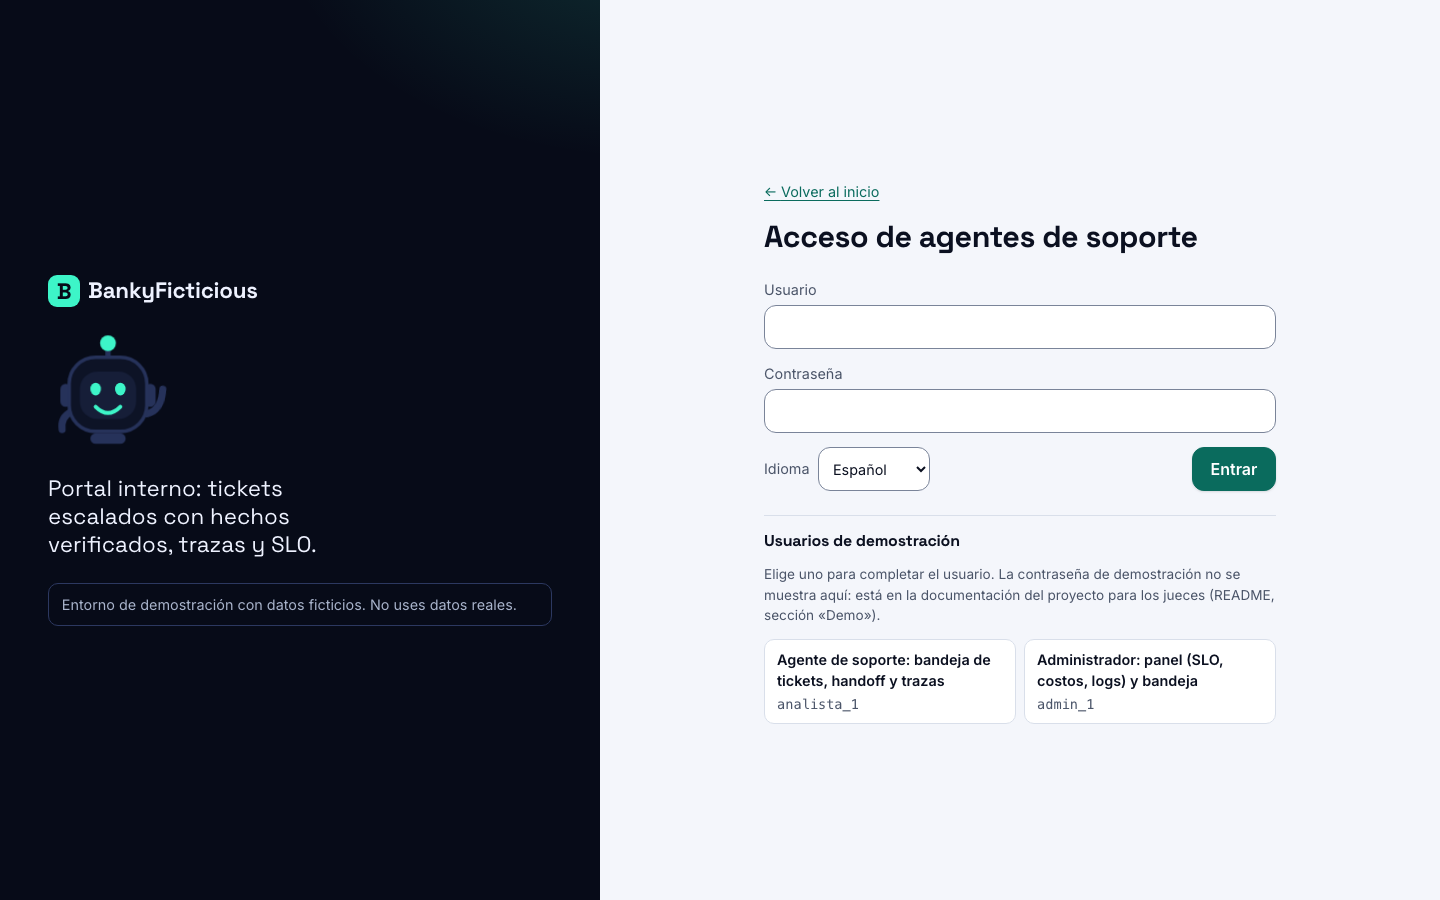
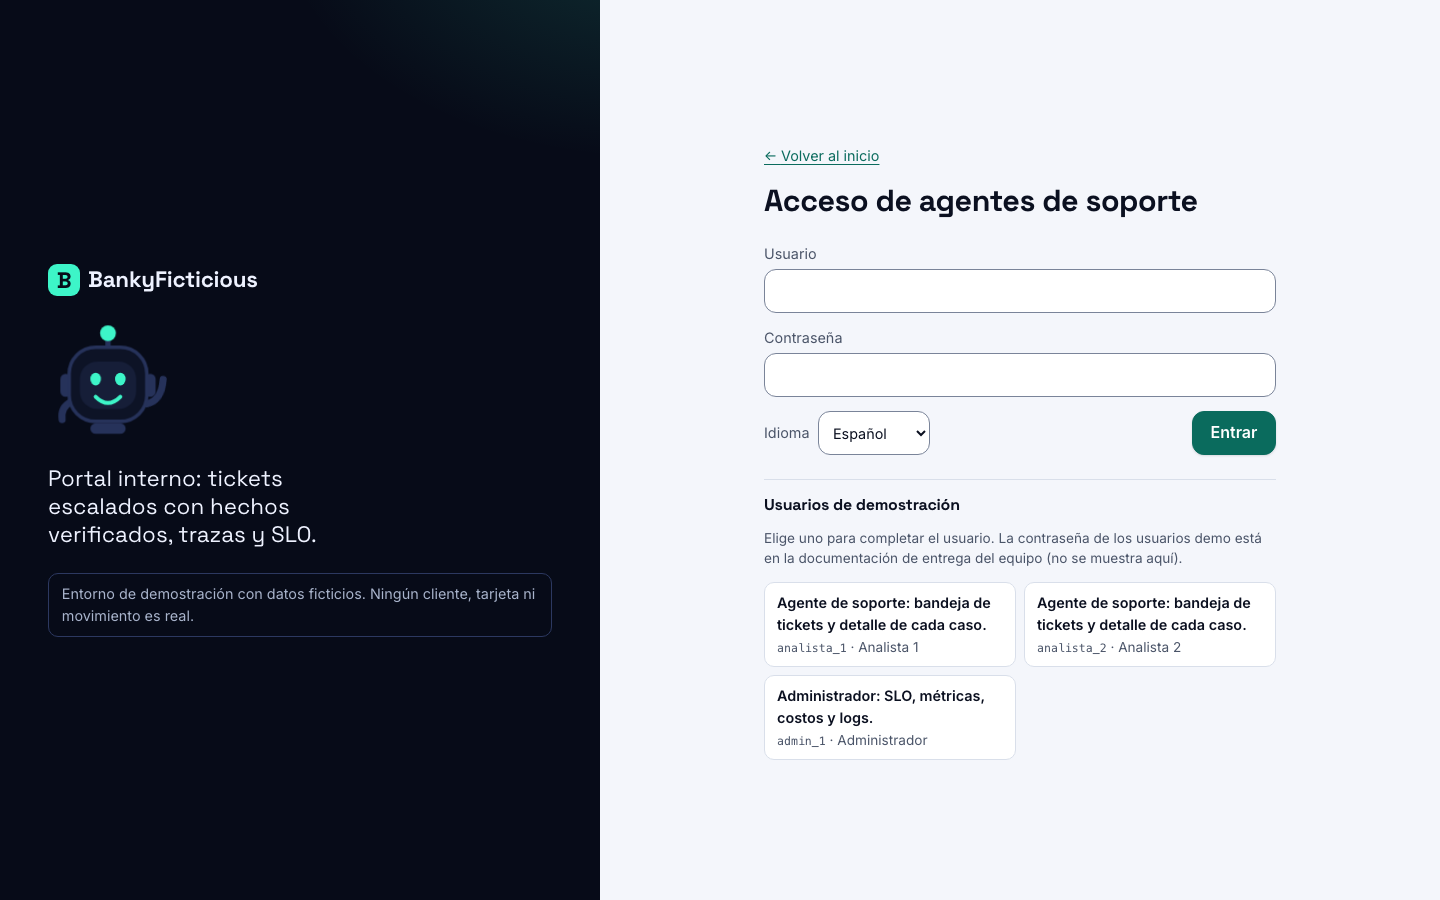
feat(frontend): demo-mode login with notice and demo user cards from /api/demo/info
Prompt 10, frontend item 2: login with `DEMO_MODE`.

- The login reads `GET /api/demo/info` (#78): with demo mode on it shows the demo-environment notice and the demo user cards with their scenario (customers on `/login`, agents and the admin on `/login?perfil=agente`).
- The password is never in the frontend: the hint from the API says where it is documented, and picking a card only fills the username.
- With demo mode off, or if the request fails, there is no notice and no cards. The built-in user list and the hard-coded demo banner are gone; the strip under the top bar shows the API notice only in demo mode.

Also closes #74 (the endpoint shape was settled by #78).

Closes #84

diff --git a/frontend/src/lib/i18n.ts b/frontend/src/lib/i18n.ts
@@ -3,14 +3,13 @@ import type { Lang } from "../api/types";
 
 const es = {
   appName: "BankyFicticious",
-  demoBanner: "Entorno de demostración con datos ficticios. No uses datos reales.",
   login: "Iniciar sesión",
   username: "Usuario",
   password: "Contraseña",
   signIn: "Entrar",
   signingIn: "Entrando…",
   demoUsers: "Usuarios de demostración",
-  demoUsersHint: "Elige uno para completar el usuario. La contraseña de demostración no se muestra aquí: está en la documentación del proyecto para los jueces (README, sección «Demo»).",
+  demoPick: "Elige uno para completar el usuario.",
   loginAside: "Soporte con Banky, tu asistente: encuentra el cargo, te explica qué sigue y registra tu reclamo.",
   loginAsideAgent: "Portal interno: tickets escalados con hechos verificados, trazas y SLO.",
   logout: "Salir",
@@ -295,14 +294,13 @@ type Dict = typeof es;
 const pt: Dict = {
   ...es,
   appName: "BankyFicticious",
-  demoBanner: "Ambiente de demonstração com dados fictícios. Não use dados reais.",
   login: "Entrar",
   username: "Usuário",
   password: "Senha",
   signIn: "Entrar",
   signingIn: "Entrando…",
   demoUsers: "Usuários de demonstração",
-  demoUsersHint: "Escolha um para preencher o usuário. A senha de demonstração não aparece aqui: está na documentação do projeto para os jurados (README, seção «Demo»).",
+  demoPick: "Escolha um para preencher o usuário.",
   loginAside: "Suporte com o Banky, seu assistente: encontra a cobrança, explica o próximo passo e registra a sua reclamação.",
   loginAsideAgent: "Portal interno: tickets encaminhados com fatos verificados, rastros e SLO.",
   logout: "Sair",
@@ -583,15 +581,3 @@ const pt: Dict = {
 };
 
 export const T: Record<Lang, Dict> = { es, pt };
-
-/** Usuarios demo (scripts/seed_demo_users.py) con el escenario que representa cada uno. */
-export const DEMO_USERS: { username: string; scenario: Record<Lang, string>; role: "customer" | "analyst" }[] = [
-  { username: "demo_cargo_claro_2", role: "customer", scenario: { es: "Cargo claro: un retiro que no reconoce", pt: "Cobrança clara: um saque que não reconhece" } },
-  { username: "demo_cargos_parecidos_2", role: "customer", scenario: { es: "Cargos parecidos: el asistente pregunta cuál", pt: "Cobranças parecidas: o assistente pergunta qual" } },
-  { username: "demo_fraude_alto_1", role: "customer", scenario: { es: "Riesgo alto: escala a fraude y ofrece bloqueo", pt: "Risco alto: encaminha para fraude e oferece bloqueio" } },
-  { username: "demo_fuera_de_plazo_1", role: "customer", scenario: { es: "Fuera de plazo: pasa a una persona", pt: "Fora do prazo: passa para uma pessoa" } },
-  { username: "demo_pendiente_1", role: "customer", scenario: { es: "Cargo pendiente: informa (o R2b si insiste)", pt: "Cobrança pendente: informa (ou R2b se insistir)" } },
-  { username: "demo_revertido_1", role: "customer", scenario: { es: "Cargo revertido: no hay nada que reclamar", pt: "Cobrança estornada: não há o que contestar" } },
-  { username: "analista_1", role: "analyst", scenario: { es: "Agente de soporte: bandeja de tickets, handoff y trazas", pt: "Agente de suporte: caixa de tickets, handoff e rastros" } },
-  { username: "admin_1", role: "analyst", scenario: { es: "Administrador: panel (SLO, costos, logs) y bandeja", pt: "Administrador: painel (SLO, custos, logs) e caixa" } },
-];

diff --git a/frontend/src/pages/__tests__/LoginPage.test.tsx b/frontend/src/pages/__tests__/LoginPage.test.tsx
@@ -1,0 +1,56 @@
+import { cleanup, fireEvent, render, screen } from "@testing-library/react";
+import { MemoryRouter } from "react-router-dom";
+import { afterEach, describe, expect, it, vi } from "vitest";
+import { api } from "../../api/client";
+import type { DemoInfo } from "../../api/types";
+import { resetDemoInfo } from "../../lib/demo";
+import { SessionProvider } from "../../lib/session";
+import LoginPage from "../LoginPage";
+
+afterEach(() => { cleanup(); vi.restoreAllMocks(); resetDemoInfo(); });
+
+const demo: DemoInfo = {
+  demo_mode: true,
+  notice: { es: "Entorno de demostración con datos ficticios.", pt: "Ambiente de demonstração com dados fictícios." },
+  password_hint: { es: "La contraseña está en la documentación de entrega del equipo.", pt: "A senha está na documentação de entrega." },
+  users: [
+    { username: "demo_cargo_claro_1", role: "customer", display_name: "Carmen R.", scenario: "cargo_claro", rank: 1, description: { es: "Cargo claro: reclámalo de punta a punta.", pt: "Cobrança clara." } },
+    { username: "analista_1", role: "analyst", display_name: "Analista 1", scenario: null, rank: null, description: { es: "Agente de soporte: bandeja de tickets.", pt: "Agente de suporte." } },
+    { username: "admin_1", role: "admin", display_name: "Administrador", scenario: null, rank: null, description: { es: "Administrador: SLO, métricas, costos y logs.", pt: "Administrador." } },
+  ],
+};
+
+function at(path: string) {
+  return render(<MemoryRouter initialEntries={[path]}><SessionProvider><LoginPage /></SessionProvider></MemoryRouter>);
+}
+
+describe("LoginPage in demo mode", () => {
+  it("shows the demo notice and the customer cards with their scenario, and says where the password is documented", async () => {
+    vi.spyOn(api, "demoInfo").mockResolvedValue(demo);
+    const { container } = at("/login");
+    const card = await screen.findByRole("button", { name: /Cargo claro: reclámalo de punta a punta/ });
+    expect(screen.getByRole("note").textContent).toBe("Entorno de demostración con datos ficticios.");
+    expect(screen.getByText(/documentación de entrega del equipo/)).toBeTruthy();
+    expect(screen.queryByText(/Agente de soporte/)).toBeNull();                     // los agentes tienen su propio acceso
+    fireEvent.click(card);
+    expect((screen.getByLabelText("Usuario") as HTMLInputElement).value).toBe("demo_cargo_claro_1");
+    expect((container.querySelector('input[type="password"]') as HTMLInputElement).value).toBe("");   // nunca se rellena la contraseña
+  });
+
+  it("shows agents and the admin on the agents login", async () => {
+    vi.spyOn(api, "demoInfo").mockResolvedValue(demo);
+    at("/login?perfil=agente");
+    await screen.findByRole("button", { name: /Agente de soporte/ });
+    expect(screen.getByRole("button", { name: /Administrador: SLO/ })).toBeTruthy();
+    expect(screen.queryByText(/Cargo claro/)).toBeNull();
+  });
+
+  it("shows no notice and no cards when demo mode is off or the request fails", async () => {
+    vi.spyOn(api, "demoInfo").mockRejectedValue(new Error("down"));
+    at("/login");
+    await screen.findByRole("button", { name: "Entrar" });
+    await Promise.resolve();
+    expect(screen.queryByRole("note")).toBeNull();
+    expect(screen.queryByText("Usuarios de demostración")).toBeNull();
+  });
+});

diff --git a/frontend/src/pages/LoginPage.tsx b/frontend/src/pages/LoginPage.tsx
@@ -1,7 +1,8 @@
 import { useRef, useState, type FormEvent } from "react";
 import { Link, Navigate, useNavigate, useSearchParams } from "react-router-dom";
 import { ApiError } from "../api/client";
-import { DEMO_USERS, T } from "../lib/i18n";
+import { useDemoInfo } from "../lib/demo";
+import { T } from "../lib/i18n";
 import { describeError, homeFor, useSession } from "../lib/session";
 import Banky from "../components/Banky";
 import ErrorNote from "../components/ErrorNote";
@@ -14,6 +15,8 @@ export default function LoginPage() {
   const [username, setUsername] = useState("");
   const [password, setPassword] = useState("");
   const passwordRef = useRef<HTMLInputElement>(null);
+  const demo = useDemoInfo();
+  const demoUsers = demo?.demo_mode ? demo.users.filter((u) => (u.role !== "customer") === agent) : [];
   const [busy, setBusy] = useState(false);
   const [error, setError] = useState<{ message: string; requestId: string | null } | null>(null);
 
@@ -43,7 +46,7 @@ export default function LoginPage() {
         </Link>
         <Banky state="greeting" size={120} />
         <p className="login-aside-text">{agent ? t.loginAsideAgent : t.loginAside}</p>
-        <p className="demo-note" role="note">{t.demoBanner}</p>
+        {demo?.demo_mode && <p className="demo-note" role="note">{demo.notice[lang]}</p>}
       </aside>
       <main className="login-card" id="main">
         <Link className="back" to="/">← {t.backHome}</Link>
@@ -70,20 +73,22 @@ export default function LoginPage() {
           </div>
           {error && <ErrorNote message={error.message} requestId={error.requestId} label={t.reference} />}
         </form>
-        <section aria-labelledby="demo-users" className="demo-users">
-          <h2 id="demo-users">{t.demoUsers}</h2>
-          <p className="muted small">{t.demoUsersHint}</p>
-          <ul>
-            {DEMO_USERS.filter((u) => (u.role === "analyst") === agent).map((u) => (
-              <li key={u.username}>
-                <button type="button" className="demo-user" onClick={() => { setUsername(u.username); passwordRef.current?.focus(); }} aria-pressed={username === u.username}>
-                  <span className="demo-scenario">{u.scenario[lang]}</span>
-                  <span className="mono muted small">{u.username}</span>
-                </button>
-              </li>
-            ))}
-          </ul>
-        </section>
+        {demo?.demo_mode && demoUsers.length > 0 && (
+          <section aria-labelledby="demo-users" className="demo-users">
+            <h2 id="demo-users">{t.demoUsers}</h2>
+            <p className="muted small">{t.demoPick} {demo.password_hint[lang]}</p>
+            <ul>
+              {demoUsers.map((u) => (
+                <li key={u.username}>
+                  <button type="button" className="demo-user" onClick={() => { setUsername(u.username); passwordRef.current?.focus(); }} aria-pressed={username === u.username}>
+                    <span className="demo-scenario">{u.description[lang]}</span>
+                    <span className="muted small"><span className="mono">{u.username}</span>{u.display_name && <> · {u.display_name}</>}</span>
+                  </button>
+                </li>
+              ))}
+            </ul>
+          </section>
+        )}
       </main>
     </div>
   );

diff --git a/frontend/src/App.tsx b/frontend/src/App.tsx
@@ -1,6 +1,7 @@
 import { Navigate, NavLink, Route, Routes, useNavigate } from "react-router-dom";
 import Icon, { type IconName } from "./components/Icon";
 import { Loading } from "./components/States";
+import { useDemoInfo } from "./lib/demo";
 import { T } from "./lib/i18n";
 import { homeFor, useSession } from "./lib/session";
 import type { Role } from "./api/types";
@@ -21,6 +22,7 @@ function Shell({ children }: { children: React.ReactNode }) {
   const { session, lang, setLang, logout } = useSession();
   const t = T[lang];
   const navigate = useNavigate();
+  const demo = useDemoInfo();
   const links: { to: string; label: string; icon: IconName }[] = session && session.role !== "customer"
     ? [...(session.role === "admin" ? [{ to: "/admin", label: t.admin.nav, icon: "gauge" as const }] : []), { to: "/agentes", label: t.agent.nav, icon: "ticket" as const }]
     : [{ to: "/chat", label: t.navChat, icon: "chat" }, { to: "/conversaciones", label: t.history.navShort, icon: "history" },
@@ -47,7 +49,7 @@ function Shell({ children }: { children: React.ReactNode }) {
           <button className="btn ghost" onClick={async () => { await logout(); navigate("/login"); }}>{t.logout}</button>
         </div>
       </header>
-      <div className="demo-strip" role="note">{t.demoBanner}</div>
+      {demo?.demo_mode && <div className="demo-strip" role="note">{demo.notice[lang]}</div>}
       <main id="main" tabIndex={-1}>{children}</main>
     </div>
   );

diff --git a/frontend/src/lib/demo.ts b/frontend/src/lib/demo.ts
@@ -1,0 +1,27 @@
+// Modo demostración: GET /api/demo/info (público). Con DEMO_MODE apagado, o si la consulta falla, no hay aviso ni tarjetas.
+// La contraseña nunca llega al frontend: `password_hint` solo dice dónde está documentada.
+import { useEffect, useState } from "react";
+import { api } from "../api/client";
+import type { DemoInfo } from "../api/types";
+
+let cached: Promise<DemoInfo> | null = null;
+
+export function loadDemoInfo(): Promise<DemoInfo> {
+  cached ??= api.demoInfo().catch((): DemoInfo => ({ demo_mode: false }));
+  return cached;
+}
+
+/** Solo para tests: olvida la respuesta guardada. */
+export function resetDemoInfo() {
+  cached = null;
+}
+
+export function useDemoInfo(): DemoInfo | null {
+  const [info, setInfo] = useState<DemoInfo | null>(null);
+  useEffect(() => {
+    let alive = true;
+    void loadDemoInfo().then((d) => { if (alive) setInfo(d); });
+    return () => { alive = false; };
+  }, []);
+  return info;
+}

diff --git a/frontend/src/api/types.ts b/frontend/src/api/types.ts
@@ -467,3 +467,16 @@ export interface AdminRoi {
   estimate: { human_cost_per_case_usd: number; saving_per_case_usd: number; monthly_saving_usd: number; break_even_cases_per_month: number };
   measured: { conversations: number; not_escalated_share: number; llm_cost_per_conversation_usd: number };
 }
+
+// ---- modo demostración (GET /api/demo/info, público)
+export interface DemoUser {
+  username: string;
+  role: Role;
+  display_name: string | null;
+  scenario: string | null;
+  rank: number | null;
+  description: Record<Lang, string>;
+}
+export type DemoInfo =
+  | { demo_mode: false }
+  | { demo_mode: true; notice: Record<Lang, string>; password_hint: Record<Lang, string>; users: DemoUser[] };

diff --git a/frontend/src/api/client.ts b/frontend/src/api/client.ts
@@ -9,6 +9,7 @@ import type {
   CaseSummary,
   FeedbackBody,
   ConversationDetail,
+  DemoInfo,
   Handoff,
   HandoffSummary,
   Lang,
@@ -88,6 +89,7 @@ export const api = {
   },
   logout: () => request<void>("POST", "/api/auth/logout"),
   me: () => request<SessionInfo>("GET", "/api/auth/me"),
+  demoInfo: () => request<DemoInfo>("GET", "/api/demo/info"),
 
   newConversation: (body: { language?: Lang; previous_conversation_id?: string; dispute_transaction_id?: string }) =>
     request<NewConversationResponse>("POST", "/api/conversations", body, { "Idempotency-Key": newIdempotencyKey() }),

diff --git a/frontend/README.md b/frontend/README.md
@@ -53,7 +53,7 @@ DEMO_PASSWORD=… BASE_URL=http://127.0.0.1:5173 npm run e2e
 | Ruta | Rol | Qué hace |
 |---|---|---|
 | `/` | — | Landing de BankyFicticious: "Tengo un reclamo" (abre el chat; sin sesión pasa por el login), acceso de agentes (`/login?perfil=agente`), cómo funciona, qué puede y qué no puede hacer Banky, aviso de datos ficticios. Lighthouse (build de producción, 2026-10-02): landing y chat con rendimiento 98–100 y accesibilidad 100 en celular y escritorio. |
-| `/login` | — | Aviso de demo, usuarios demo con su escenario, idioma es/pt. |
+| `/login` | — | Login en dos paneles. Con `DEMO_MODE` (`GET /api/demo/info`): aviso de entorno de demostración y tarjetas de usuarios demo con su escenario (clientes en `/login`, agentes y admin en `/login?perfil=agente`). La contraseña nunca está en el frontend: el aviso dice dónde está documentada. Con el modo apagado no hay aviso ni tarjetas. |
 | `/chat` | customer | Chat con todos los bloques del contrato. Banky se presenta y pregunta texto o voz (la voz solo si `GET /api/voice/config` la habilita); fase real del turno; RCL copiable; "¿Te ayudé?" al cerrar. |
 | `/conversaciones` | customer | "Mis conversaciones": `GET /api/me/conversations` (paginado) con fecha, resumen, estado y referencias. El detalle (`/conversaciones/:id`) es de solo lectura y "Continuar sobre este tema" abre una conversación enlazada. |
 | `/movimientos` | customer | `GET /api/me/transactions` con filtros. "No reconozco este cargo" abre el chat con esa disputa (`dispute_transaction_id`). |
